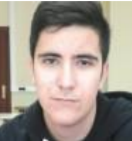
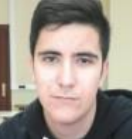
arreglando codigo

diff --git a/css/general.css b/css/general.css
@@ -119,7 +119,7 @@ ul#entregas{
     height: 450px;
     display: block;
     margin:auto;
-    background-color: black;
+    background-color: rgb(146, 137, 137);
     padding:1%;
 }
 

diff --git a/includes/src/eventos/Eventos.php b/includes/src/eventos/Eventos.php
@@ -19,50 +19,11 @@ class Eventos extends Lista {
         return new Evento($fila["IdEvento"],$fila["nombre"],$fila["imagen"],$fila["descripcion"],$fila["fechaInicio"],$fila["fechaFinal"],$fila["IdJuego"],$fila["premio"]);
     }
 
-    public function gestiona(){
-       
-        $datos = &$_GET;
+    protected function mostrarElem($datos){
 
-        if (!$this->eventoEnviado($datos)) {
-
-            $html = <<<EOS
-                <div class = "msg_centrado">
-                    <h3>Demuestra tu habilidad, gana dinero y muchos premios jugando los mejores torneos de la comunidad.</h3>
-                </div>
-            EOS;
-
-            $buscador = new BuscadorEventos();
-
-            $html .= $buscador->gestiona();
-
-            $html .= $this->mostrarEventos();
-
-            $html .= <<< EOS
-                <div class = "footer_zone">
-                En ChestnutGames no se admiten trampas de ningún tipo y el respeto entre jugadores es esencial. Nuestra comunidad está formada únicamente 
-                por jugadores que cumplen las Reglas y actúan de forma deportiva. Nuestra plataforma integra sistemas de detección de tramposos, 
-                obtención de resultados de forma automática desde los videojuegos y un equipo de profesionales. Defendemos la integridad de las 
-                competiciones. !Que gane el mejor! 
-                </div>
-            EOS;
-
-            return $html;
-        }
-        else{
-
-            return $this->mostrarEvento($datos);
-        }
-    }
-
-    private function eventoEnviado($datos){
-        return isset($datos["id"]);
-    }
-
-    private function mostrarEvento($datos){
-
+        $html="";
         $id = filter_var(trim($datos["id"]), FILTER_SANITIZE_FULL_SPECIAL_CHARS);  
         $evento = $this->getElement($id);
-        $html = "";
         
         $temporizadorInicio = new Temporizador($evento->getFechaInicio());
         $temporizadorFin = new Temporizador($evento->getFechaFin());
@@ -141,9 +102,19 @@ class Eventos extends Lista {
         return $html;
     }
 
-    public function mostrarEventos(){
+    public function mostrarElems(){
 
-        $html = '<div class="slider">';
+        $html = <<<EOS
+        <div class = "msg_centrado">
+            <h3>Demuestra tu habilidad, gana dinero y muchos premios jugando los mejores torneos de la comunidad.</h3>
+        </div>
+        EOS;
+
+        $buscador = new BuscadorEventos();
+
+        $html .= $buscador->gestiona();
+
+        $html.= '<div class="slider">';
     
             foreach($this->lista as $id => $evento ){
                 $html .= '<input type="radio" id="' . $id . '" name="image-slide" hidden />';
@@ -166,6 +137,15 @@ class Eventos extends Lista {
             $html .='</div>';
 
         $html .= '</div>';
+
+        $html .= <<< EOS
+        <div class = "footer_zone">
+        En ChestnutGames no se admiten trampas de ningún tipo y el respeto entre jugadores es esencial. Nuestra comunidad está formada únicamente 
+        por jugadores que cumplen las Reglas y actúan de forma deportiva. Nuestra plataforma integra sistemas de detección de tramposos, 
+        obtención de resultados de forma automática desde los videojuegos y un equipo de profesionales. Defendemos la integridad de las 
+        competiciones. !Que gane el mejor! 
+        </div>
+        EOS;
 
         return $html;
     }

diff --git a/includes/src/juegos/Juegos.php b/includes/src/juegos/Juegos.php
@@ -6,7 +6,7 @@ use es\chestnut\Lista;
 
 class Juegos extends Lista{
     private static $ruta_imagenes;
-    private const TABLE ="juegos";
+    private const TABLE ="Juegos";
 
     public function __construct(){
         parent::__construct(self::TABLE);
@@ -17,24 +17,8 @@ class Juegos extends Lista{
     protected function crearElem($fila){
         return new Juego($fila["IdJuego"],$fila["Nombre"],$fila["Imagen"],$fila["Descripcion"],$fila["Categoria"],$fila["Enlace"]);
     }
-    public function gestiona(){
 
-        $datos = &$_GET;
-        
-        if (!$this->juegoEnviado($datos)) {
-            return $this->mostrarJuegos();
-        }
-        else{
-            return $this->mostrarJuego($datos);
-        }
-
-    }
-
-    private function juegoEnviado($datos){
-        return isset($datos['id']);
-    }
-
-    private function mostrarJuegos(){
+    protected function mostrarElems(){
         $path = self::$ruta_imagenes;
         $html = "<img class='gif_centrado' src='{$path}play.gif' alt='Gif'>"; 
         $i = 0;
@@ -77,7 +61,7 @@ class Juegos extends Lista{
         return $html;
     }
 
-    private function mostrarJuego($datos){
+    protected function mostrarElem($datos){
 
         $ruta_imagenes = self::$ruta_imagenes;
         $id_juego = filter_var(trim($datos["id"]), FILTER_SANITIZE_FULL_SPECIAL_CHARS);  

diff --git a/includes/src/tienda/Producto.php b/includes/src/tienda/Producto.php
@@ -1,0 +1,45 @@
+<?php
+
+namespace es\chestnut\tienda;
+
+class Producto{
+    private $id;
+    private $nombre;
+    private $imagen;
+    private $desc;
+    private $categoria;
+    private $precio;
+
+    public function __construct($id, $nombre, $imagen, $desc, $categoria, $precio ){
+        $this->id = $id;
+        $this->nombre = $nombre;
+        $this->imagen = $imagen;
+        $this->desc = $desc;
+        $this->categoria = $categoria;
+        $this->enlace = $precio;
+    }
+
+    public function getId(){
+        return $this->id;
+    }
+
+    public function getNombre(){
+        return $this->nombre;
+    }
+
+    public function getImagen(){
+        return $this->imagen;
+    }
+    public function getDesc(){
+        return $this->desc;
+    }
+
+    public function getCategoria(){
+        return $this->categoria;
+    }
+
+    public function getPrecio(){
+        return $this->precio;
+    }
+}
+

diff --git a/includes/src/eventos/BuscadorEventos.php b/includes/src/eventos/BuscadorEventos.php
@@ -33,7 +33,7 @@ class BuscadorEventos{
                 <img id="ev" src="{$rutaimg}buscar.jpg" alt="buscar">
             </div>
 
-            <form action="null" method="get">
+            <form method="get">
                 <div class = "text_buscar">
                     <input class="evi" type ="text" name ="evento" value ="">
                 </div>
@@ -62,7 +62,7 @@ class BuscadorEventos{
                 // Conexión a la base de datos y seleccion de registros
                 $conn = $app->getConexionBd();
                 $prepared = $conn->prepare("SELECT nombre FROM eventos WHERE nombre LIKE ? ");
-                $prepared->execute(array("$eventToSearch"));
+                $prepared->execute(array("%$eventToSearch%"));
                 $consulta = $prepared->get_result();
                 $count_results = mysqli_num_rows($consulta);
         

diff --git a/includes/src/Lista.php b/includes/src/Lista.php
@@ -25,11 +25,29 @@ abstract class Lista{
         return $this->lista[$id];
     }
 
+    protected function elemEnviado($datos){
+        return isset($datos['id']);
+    }
+
+    protected function mostrarElem($id){
+        return "";
+    }
+
+    protected function mostrarElems(){
+        return "";
+    }
     public function gestiona(){
-        return '<html> </html>';
+        $datos = &$_GET;
+        
+        if (!$this->elemEnviado($datos)) {
+            return $this->mostrarElems();
+        }
+        else{
+            return $this->mostrarElem($datos);
+        }
     }
     protected function crearElem($fila){
-        return null;
+        return $fila;
 
     }
     private function cargarLista($table){

diff --git a/includes/src/tienda/Tienda.php b/includes/src/tienda/Tienda.php
@@ -1,0 +1,16 @@
+<?php
+
+namespace es\chestnut\tienda;
+use es\chestnut\Lista;
+
+class Tienda extends Lista{
+    private const TABLE ="Tienda";
+
+    public function __construct(){
+        parent::__construct(self::TABLE);
+    }
+
+    protected function crearElem($fila){
+        return new Producto($fila["IdProducto"],null,null,null,null,null);
+    }
+}

diff --git a/logout.php b/logout.php
@@ -7,6 +7,6 @@ $tituloPagina='Logout';
 $params = ['tituloPagina' => $tituloPagina, 'contenidoPrincipal' => $contenidoPrincipal];
 $app->generaVista('/plantillas/plantilla.php', $params);
 
-header("refresh:4 ,url='index.php'");
+header("refresh:4 ,url=".$app->resuelve("/index.php"));
 exit();
 
